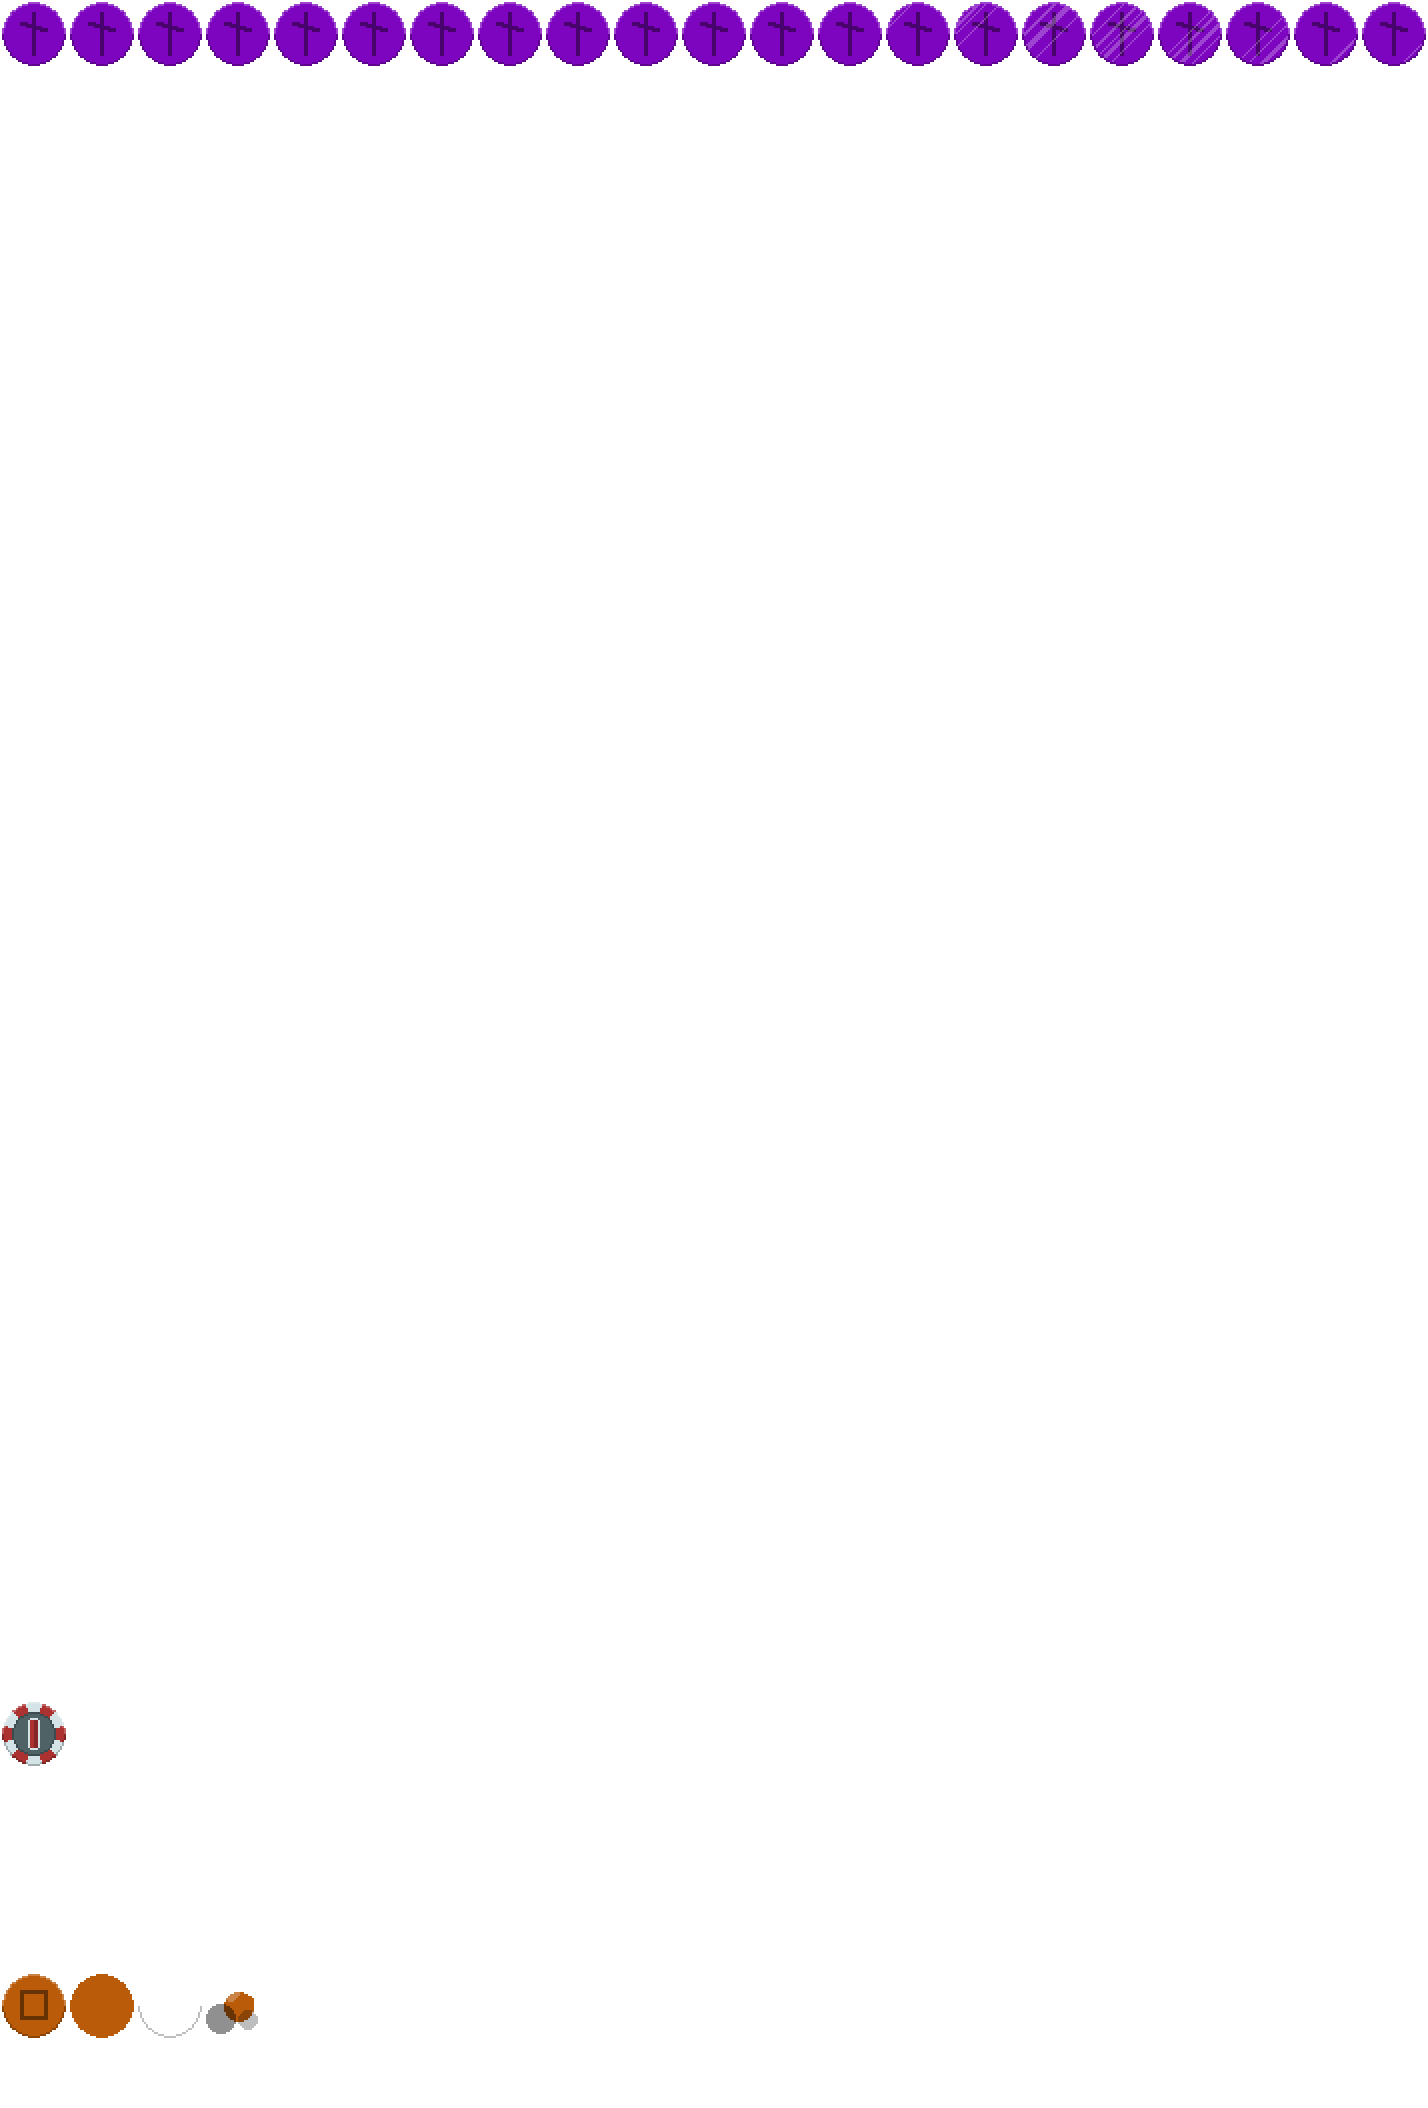
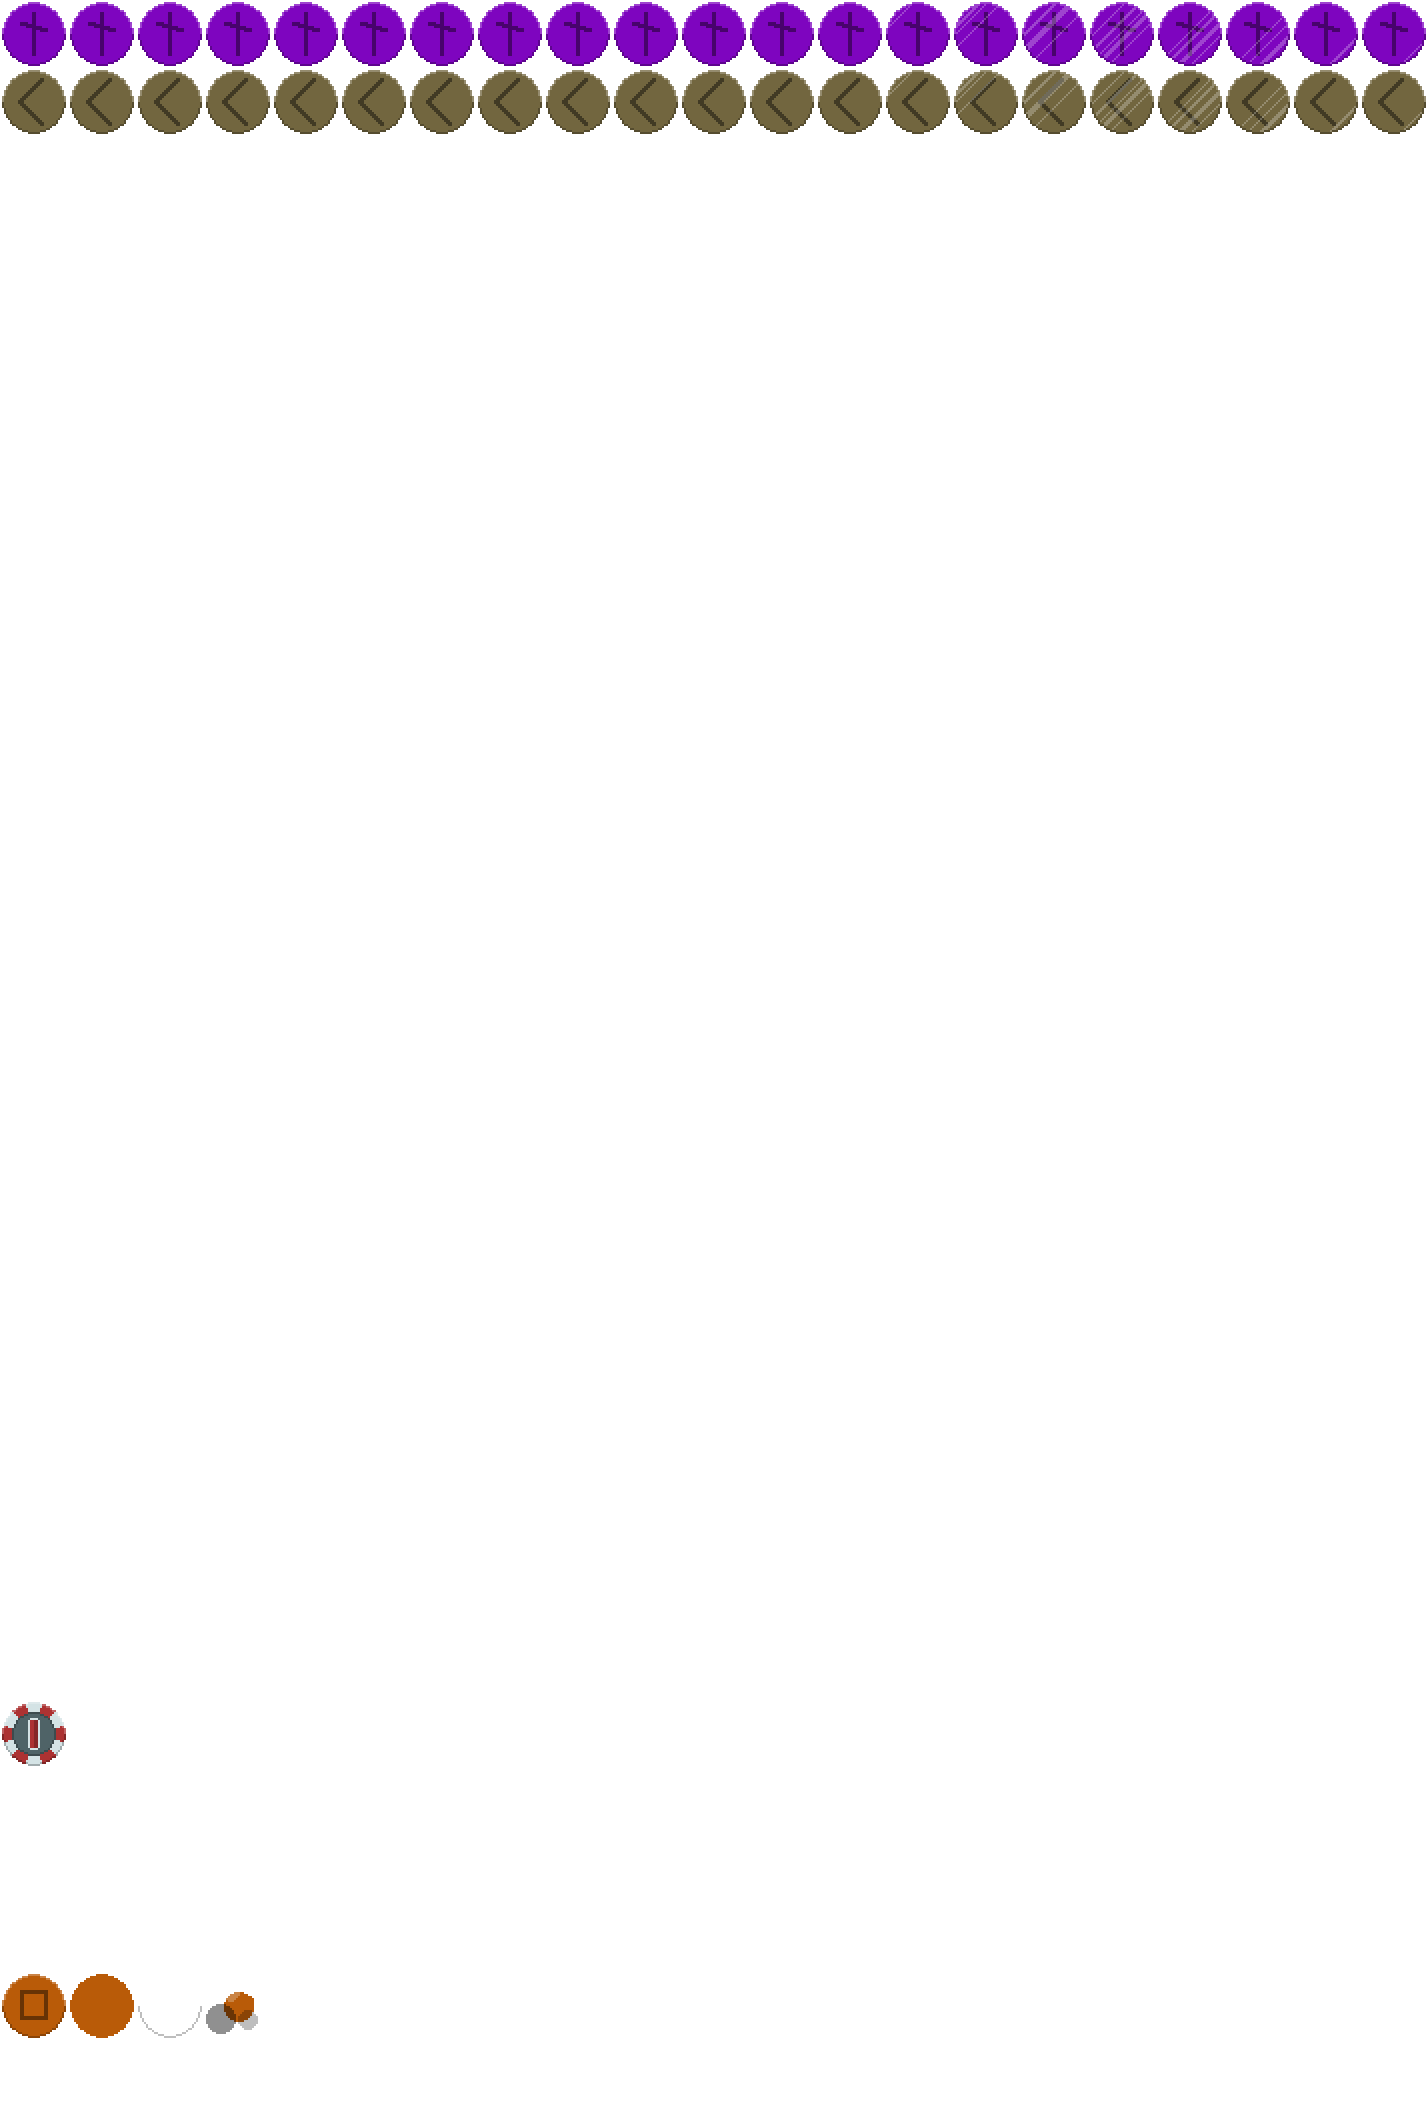
Add the Rot blind

Changed region(s): [[0.0, 0.0308, 1.0, 0.0617]]

diff --git a/web/addjokers.js b/web/addjokers.js
@@ -243,8 +243,7 @@ let jokers = [
     name: "Spam",
     text: [
       "When round begins,",
-        "add {C:attention}2{} random {C:attention}playing",
-        "{C:attention}cards{} to your hand",
+        "add {C:attention}2{} random {C:attention}playing cards{} to your hand",
     ],
     image_url: "img/j/spam_base.png",
     soul_url: "img/j/spam_soul.png",
@@ -254,9 +253,7 @@ let jokers = [
   {
     name: "Hidden Joker",
     text: [
-      "{C:red}+3{} discards each round,",
-        "cards are drawn face",
-        "down after discards",
+      "{C:red}+3{} discards each round, cards are drawn face down after discards",
     ],
     image_url: "img/j/hidden_base.png",
     soul_url: "img/j/hidden_soul.png",
@@ -266,9 +263,7 @@ let jokers = [
   {
     name: "Cantrip",
     text: [
-      "{C:blue}+1{} Hand if played",
-        "hand is the first",
-        "{C:attention}High Card{} of the round",
+      "{C:blue}+1{} Hand if played hand is the first {C:attention}High Card{} of the round",
     ],
     image_url: "img/j/cantrip.png",
     rarity: "Common"
@@ -318,7 +313,7 @@ let jokers = [
   {
     name: "Anchor",
     text: [
-      "{C:spades}Spade{} cards are drawn last",
+      "{C:spades}Spade{} cards start at the bottom of the deck",
     ],
     image_url: "img/j/anchor.png",
     rarity: "Uncommon"
@@ -656,6 +651,14 @@ let blinds = [
       "Excess score is added to the requirement of future blinds",
     ],
     image_url: "img/bl/innocent.png",
+    rarity: "Boss Blind"
+  },
+  {
+    name: "The Rot",
+    text: [
+      "First 5th of deck is debuffed",
+    ],
+    image_url: "img/bl/rot.png",
     rarity: "Boss Blind"
   },
   // {
